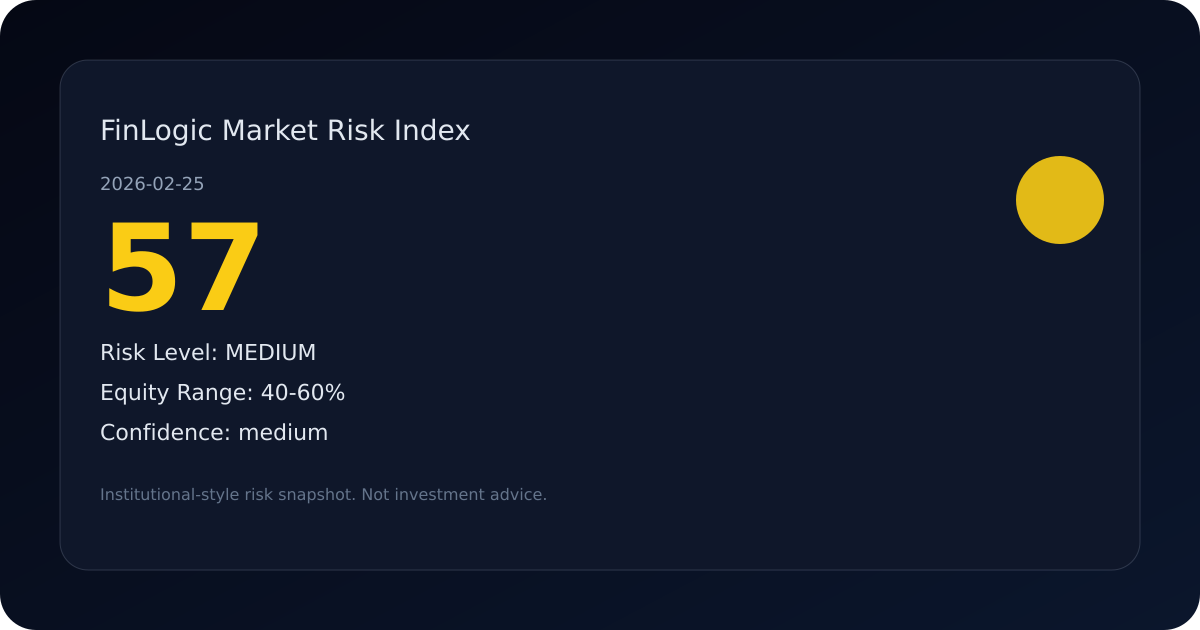
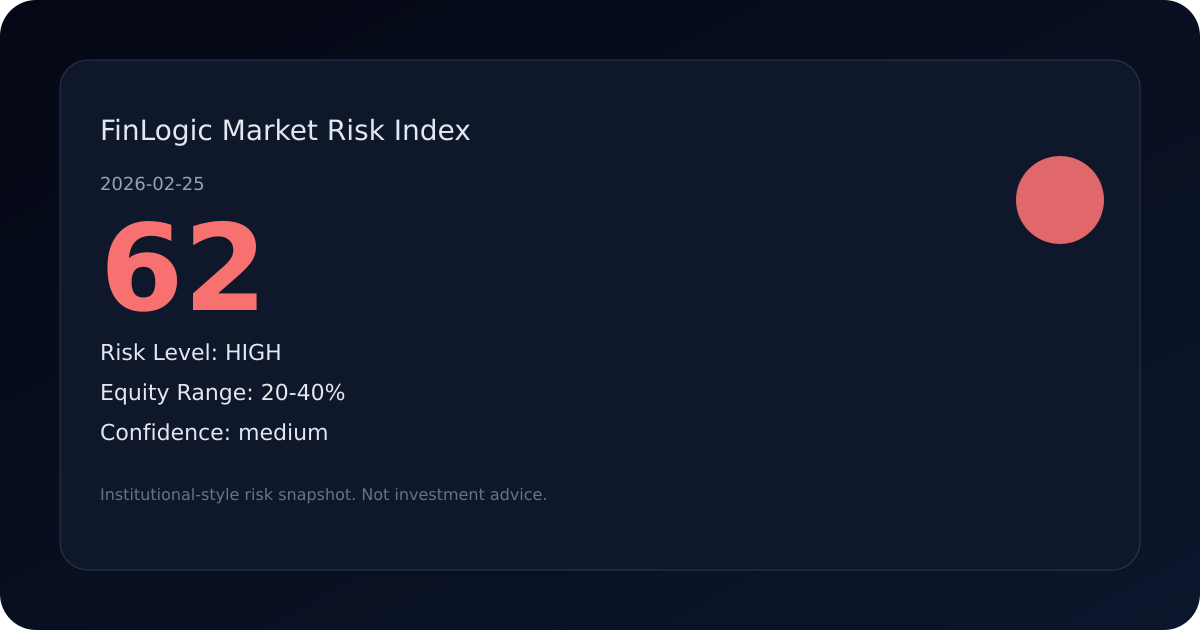
Daily: auto update

diff --git a/public/daily/2026-02-25.html b/public/daily/2026-02-25.html
@@ -5,12 +5,12 @@
   <meta name="viewport" content="width=device-width, initial-scale=1.0">
   <meta name="robots" content="index,follow">
   <meta name="theme-color" content="#0f172a">
-  <meta name="description" content="2026-02-25市场风险灯为多云，风险分57，仓位区间40-60%。主题Top为Cybersecurity、Energy、Consumer，Bottom为AI、Healthcare、Defense，用于观察市场气候与风险偏好变化，仅作风险感知。">
+  <meta name="description" content="2026-02-25市场风险灯为风暴，风险分62，仓位区间20-40%。主题Top为Cybersecurity、Energy、Consumer，Bottom为AI、Healthcare、Defense，用于观察市场气候与风险偏好变化，仅作风险感知。">
   <title>2026-02-25 市场风险状态 - FinLogicHub5</title>
   <link rel="canonical" href="https://finlogichub5.com/daily/2026-02-25.html">
   <meta property="og:type" content="website">
   <meta property="og:title" content="2026-02-25 市场风险状态 - FinLogicHub5">
-  <meta property="og:description" content="2026-02-25市场风险灯为多云，风险分57，仓位区间40-60%。主题Top为Cybersecurity、Energy、Consumer，Bottom为AI、Healthcare、Defense，用于观察市场气候与风险偏好变化，仅作风险感知。">
+  <meta property="og:description" content="2026-02-25市场风险灯为风暴，风险分62，仓位区间20-40%。主题Top为Cybersecurity、Energy、Consumer，Bottom为AI、Healthcare、Defense，用于观察市场气候与风险偏好变化，仅作风险感知。">
   <meta property="og:url" content="https://finlogichub5.com/daily/2026-02-25.html">
   <link rel="preconnect" href="https://fonts.googleapis.com">
   <link rel="preconnect" href="https://fonts.gstatic.com" crossorigin>
@@ -20,7 +20,7 @@
       "@context": "https://schema.org",
       "@type": "WebPage",
       "name": "2026-02-25 市场风险状态",
-      "description": "2026-02-25市场风险灯为多云，风险分57，仓位区间40-60%。主题Top为Cybersecurity、Energy、Consumer，Bottom为AI、Healthcare、Defense，用于观察市场气候与风险偏好变化，仅作风险感知。",
+      "description": "2026-02-25市场风险灯为风暴，风险分62，仓位区间20-40%。主题Top为Cybersecurity、Energy、Consumer，Bottom为AI、Healthcare、Defense，用于观察市场气候与风险偏好变化，仅作风险感知。",
       "inLanguage": "zh-CN",
       "url": "https://finlogichub5.com/daily/2026-02-25.html",
       "datePublished": "2026-02-25",
@@ -91,16 +91,16 @@
     <div class="grid">
       <div class="card">
         <div class="risk-light">
-          <div class="lamp risk-yellow">🟡</div>
+          <div class="lamp risk-red">🔴</div>
           <div>
             <div class="note">风险分</div>
-            <div class="score risk-yellow">57</div>
-            <div class="note">仓位区间 40-60%</div>
+            <div class="score risk-red">62</div>
+            <div class="note">仓位区间 20-40%</div>
             <div class="note">Δ 昨日 —</div>
-            <div class="note">组件：趋势 25 / 压力 25 / 风险偏好 75</div>
+            <div class="note">组件：趋势 75 / 压力 25 / 风险偏好 75</div>
           </div>
         </div>
-        <div class="badge">风险灯 · 多云 · medium</div>
+        <div class="badge">风险灯 · 风暴 · high</div>
         <div class="note">Method MRI-1.0</div>
         <details style="margin-top:6px;">
           <summary style="cursor:pointer;color:#93c5fd;font-size:12px;list-style:none;">方法论</summary>
@@ -108,42 +108,42 @@
         </details>
         <details style="margin-top:6px;">
           <summary style="cursor:pointer;color:#93c5fd;font-size:12px;list-style:none;">为何如此？</summary>
-          <div class="note">趋势风险偏低 / 压力风险偏低 / 风险偏好偏弱</div>
+          <div class="note">趋势风险偏高 / 压力风险偏低 / 风险偏好偏弱</div>
           <div class="note">
-            Trend 7
+            Trend 18
             <div style="height:8px;background:rgba(148,163,184,0.2);border-radius:999px;overflow:hidden;margin:4px 0 8px 0;">
-              <div style="height:100%;background:linear-gradient(90deg,#38bdf8,#22d3ee);width:7%"></div>
+              <div style="height:100%;background:linear-gradient(90deg,#38bdf8,#22d3ee);width:18%"></div>
             </div>
           </div>
           <div class="note">
-            Stress 15
+            Stress 13
             <div style="height:8px;background:rgba(148,163,184,0.2);border-radius:999px;overflow:hidden;margin:4px 0 8px 0;">
-              <div style="height:100%;background:linear-gradient(90deg,#38bdf8,#22d3ee);width:15%"></div>
+              <div style="height:100%;background:linear-gradient(90deg,#38bdf8,#22d3ee);width:13%"></div>
             </div>
           </div>
           <div class="note">
-            Regime 35
+            Regime 31
             <div style="height:8px;background:rgba(148,163,184,0.2);border-radius:999px;overflow:hidden;margin:4px 0 8px 0;">
-              <div style="height:100%;background:linear-gradient(90deg,#38bdf8,#22d3ee);width:35%"></div>
+              <div style="height:100%;background:linear-gradient(90deg,#38bdf8,#22d3ee);width:31%"></div>
             </div>
           </div>
-          <div class="note">Trend: 趋势风险25：价格在MA200上方（rule: close_vs_ma200） / Stress: 压力风险25：vol20 14.6%（rule: vol20_threshold） / Regime: 偏好风险75：risk-off 比率走弱（rule: ratio_down_20d）</div>
+          <div class="note">Trend: 趋势风险75：价格在MA200下方（rule: close_vs_ma200） / Stress: 压力风险25：vol20 15.7%（rule: vol20_threshold） / Regime: 偏好风险75：risk-off 比率走弱（rule: ratio_down_20d）</div>
         </details>
       </div>
       <div class="card">
         <div style="font-weight:700; margin-bottom:6px;">主题热度榜 Top 3</div>
-        <div class="theme-row"><span>Cybersecurity</span><span>74</span></div><div class="note">20D 走强 +12.1%</div><div class="theme-row"><span>Energy</span><span>68</span></div><div class="note">20D 走强 +9.0%</div><div class="theme-row"><span>Consumer</span><span>47</span></div><div class="note">20D 回撤 -1.4%</div>
+        <div class="theme-row"><span>Cybersecurity</span><span>70</span></div><div class="note">20D 走强 +10.1%</div><div class="theme-row"><span>Energy</span><span>60</span></div><div class="note">20D 走强 +5.2%</div><div class="theme-row"><span>Consumer</span><span>56</span></div><div class="note">20D 走强 +3.1%</div>
       </div>
       <div class="card">
         <div style="font-weight:700; margin-bottom:6px;">主题热度榜 Bottom 3</div>
-        <div class="theme-row"><span>AI</span><span>26</span></div><div class="note">20D 回撤 -11.9%</div><div class="theme-row"><span>Healthcare</span><span>39</span></div><div class="note">20D 回撤 -5.3%</div><div class="theme-row"><span>Defense</span><span>44</span></div><div class="note">20D 回撤 -2.9%</div>
+        <div class="theme-row"><span>AI</span><span>33</span></div><div class="note">20D 回撤 -8.3%</div><div class="theme-row"><span>Healthcare</span><span>41</span></div><div class="note">20D 回撤 -4.4%</div><div class="theme-row"><span>Defense</span><span>41</span></div><div class="note">20D 回撤 -4.5%</div>
       </div>
       <div class="card">
         <div style="font-weight:700; margin-bottom:6px;">今日要点</div>
-        <ul class="list"><li>SPY 站上 MA200（趋势 +）</li><li>MA50 高于 MA200（中期多头）</li><li>20D 波动率 14.6%（压力可控）</li></ul>
+        <ul class="list"><li>SPY 跌破 MA200（趋势 -）</li><li>MA50 高于 MA200（中期多头）</li><li>20D 波动率 15.7%（压力可控）</li></ul>
       </div>
     </div>
-    <div class="explain">今日市场气候为多云，风险灯显示多云，风险分为57。仓位区间提示权益配置可参考40-60%，用于约束波动与回撤压力。主题热度榜的Top/Bottom反映资金偏好变化，需与趋势健康度、压力和风险偏好共同理解。若风险灯连续偏高，可考虑降低仓位并设置仓位护栏以控制回撤。以上内容仅作历史观察与风险提醒，不构成任何投资建议或收益承诺。</div>
+    <div class="explain">今日市场气候为风暴，风险灯显示风暴，风险分为62。仓位区间提示权益配置可参考20-40%，用于约束波动与回撤压力。主题热度榜的Top/Bottom反映资金偏好变化，需与趋势健康度、压力和风险偏好共同理解。若风险灯连续偏高，可考虑降低仓位并设置仓位护栏以控制回撤。以上内容仅作历史观察与风险提醒，不构成任何投资建议或收益承诺。</div>
     <div class="footer-links">
       
       

diff --git a/public/market-risk-index.html b/public/market-risk-index.html
@@ -10,15 +10,15 @@
   <link rel="canonical" href="https://finlogichub5.com/market-risk-index.html">
   <!-- MRI_OG_START -->
 <meta property="og:type" content="website">
-<meta property="og:title" content="MRI 57 · MEDIUM · 2026-02-25">
-<meta property="og:description" content="FinLogic MRI 57，风险等级 medium，仓位区间 40-60%，置信度 medium。">
+<meta property="og:title" content="MRI 62 · HIGH · 2026-02-25">
+<meta property="og:description" content="FinLogic MRI 62，风险等级 high，仓位区间 20-40%，置信度 medium。">
 <meta property="og:url" content="https://finlogichub5.com/market-risk-index.html">
 <meta property="og:site_name" content="FinLogicHub5">
 <meta property="og:locale" content="zh_CN">
 <meta property="og:image" content="https://finlogichub5.com/og/mri-latest.png">
 <meta name="twitter:card" content="summary_large_image">
-<meta name="twitter:title" content="MRI 57 · MEDIUM · 2026-02-25">
-<meta name="twitter:description" content="FinLogic MRI 57，风险等级 medium，仓位区间 40-60%，置信度 medium。">
+<meta name="twitter:title" content="MRI 62 · HIGH · 2026-02-25">
+<meta name="twitter:description" content="FinLogic MRI 62，风险等级 high，仓位区间 20-40%，置信度 medium。">
 <meta name="twitter:image" content="https://finlogichub5.com/og/mri-latest.png">
 <!-- MRI_OG_END -->
   <link rel="preconnect" href="https://fonts.googleapis.com">

diff --git a/public/daily.html b/public/daily.html
@@ -9,15 +9,15 @@
   <title>每日市场状态 - FinLogicHub5</title>
   <!-- MRI_OG_START -->
 <meta property="og:type" content="website">
-<meta property="og:title" content="MRI 57 · MEDIUM · 2026-02-25">
-<meta property="og:description" content="FinLogic MRI 57，风险等级 medium，仓位区间 40-60%，置信度 medium。">
+<meta property="og:title" content="MRI 62 · HIGH · 2026-02-25">
+<meta property="og:description" content="FinLogic MRI 62，风险等级 high，仓位区间 20-40%，置信度 medium。">
 <meta property="og:url" content="https://finlogichub5.com/daily.html">
 <meta property="og:site_name" content="FinLogicHub5">
 <meta property="og:locale" content="zh_CN">
 <meta property="og:image" content="https://finlogichub5.com/og/mri-latest.png">
 <meta name="twitter:card" content="summary_large_image">
-<meta name="twitter:title" content="MRI 57 · MEDIUM · 2026-02-25">
-<meta name="twitter:description" content="FinLogic MRI 57，风险等级 medium，仓位区间 40-60%，置信度 medium。">
+<meta name="twitter:title" content="MRI 62 · HIGH · 2026-02-25">
+<meta name="twitter:description" content="FinLogic MRI 62，风险等级 high，仓位区间 20-40%，置信度 medium。">
 <meta name="twitter:image" content="https://finlogichub5.com/og/mri-latest.png">
 <!-- MRI_OG_END -->
   <link rel="preconnect" href="https://fonts.googleapis.com">
